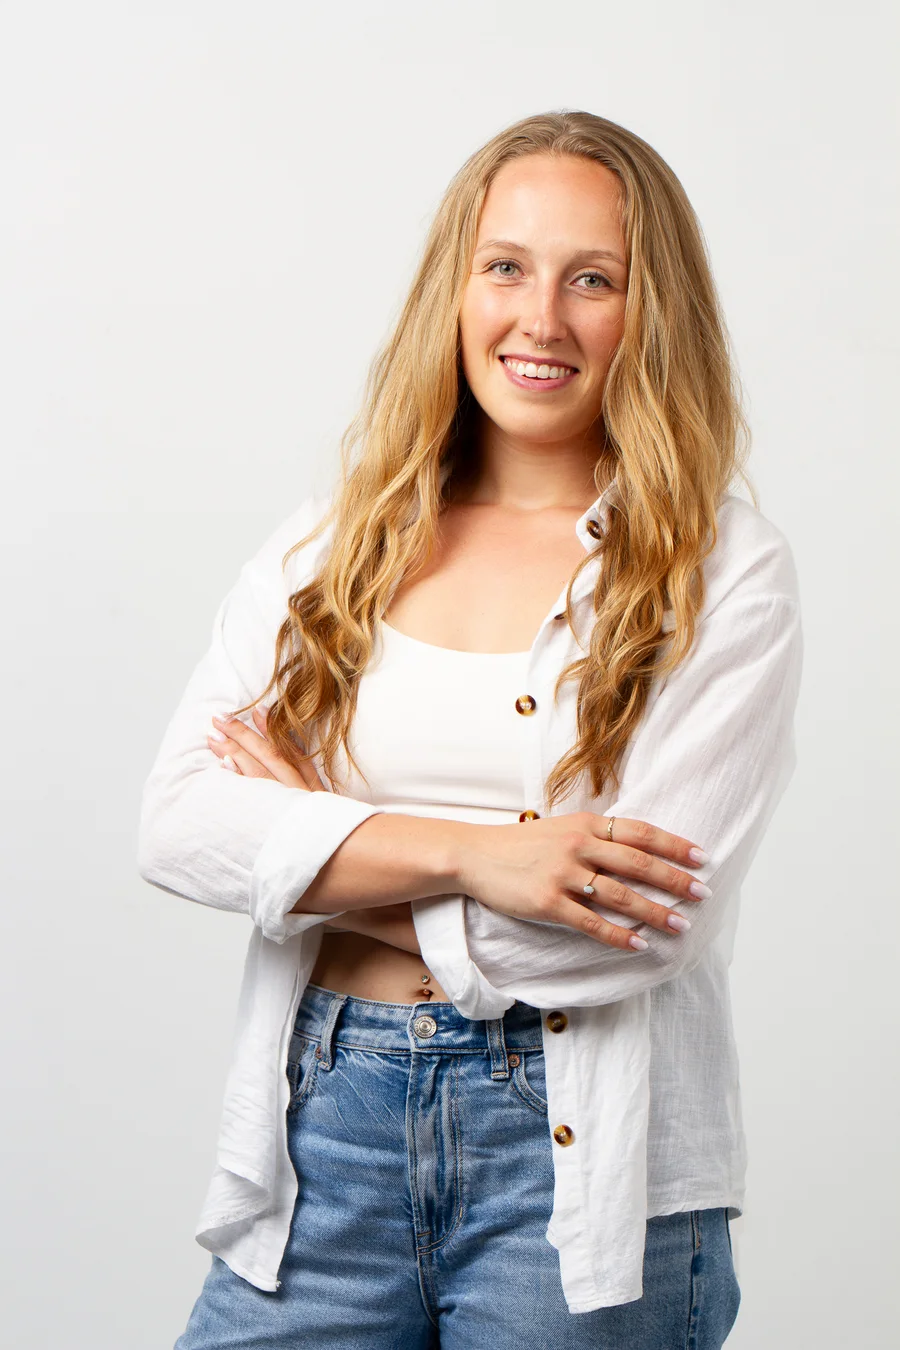
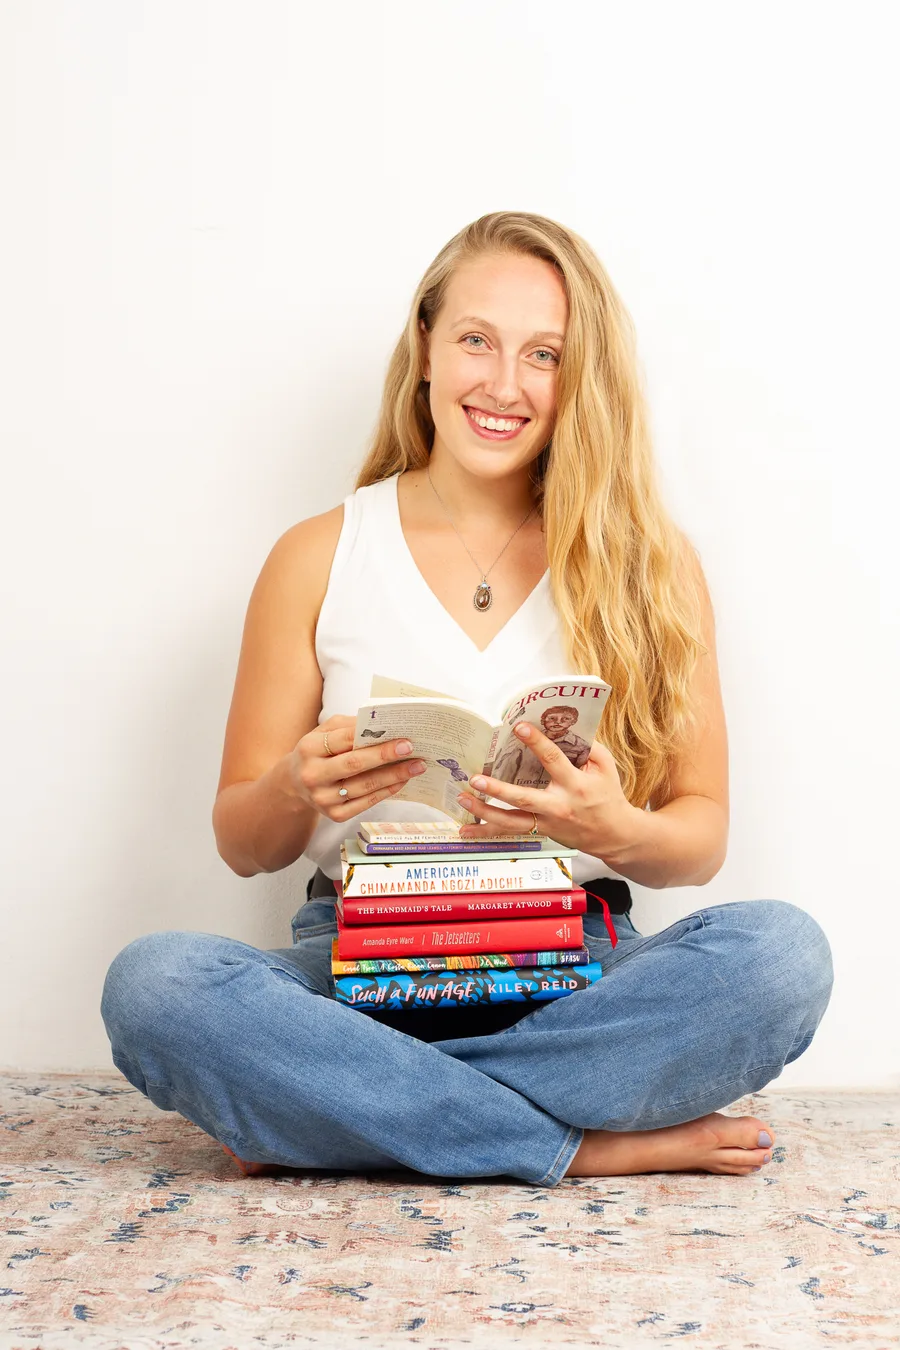
Apply owner photo swaps; Audrey bio uses dch_7238.
Replace hero, Audrey teacher, Monique, and home-only founder images with optimized WebPs from the uploaded DCH files. Our story keeps the existing founder portrait.

diff --git a/app/page.tsx b/app/page.tsx
@@ -193,7 +193,7 @@ export default function Home() {
       {page === "home" && <>
         <section className="hero">
           <div><p className="eyebrow">{l("Your virtual language academy", "Tu academia virtual de idiomas")}</p><h1>{l("Build the confidence", "Gana confianza")} <em>{l("to speak.", "para hablar.")}</em></h1><p className="intro">{l("Personalized language instruction built around your level, goals, and needs.", "Instrucción de idiomas personalizada, diseñada según tu nivel, tus metas y tus necesidades.")}</p><a className="button primary" href={generalUrl} target="_blank" rel="noreferrer">{cta}</a><p className="micro">{l("Certified native teachers · Personalized learning · Authentic conversation", "Docentes nativos certificados · Aprendizaje personalizado · Conversación auténtica")}</p></div>
-          <div className="hero-visual"><Image src={asset("/brand/students-talking.webp")} alt={l("Two people talking together at a table with books", "Dos personas conversando en una mesa con libros")} width={1600} height={1066} priority unoptimized /></div>
+          <div className="hero-visual"><Image src={asset("/brand/students-talking.webp")} alt={l("Three teachers sharing a book and laughing together", "Tres docentes compartiendo un libro y riendo juntas")} width={1600} height={1066} priority unoptimized /></div>
         </section>
         <section className="section audience-section" aria-labelledby="audiences-title">
           <h2 id="audiences-title">{l("Language for you.", "El idioma para ti.")}</h2>
@@ -215,7 +215,7 @@ export default function Home() {
           </a>
         </section>
         <section className="section approach-teaser"><div><h2>{l("Our approach", "Nuestro enfoque")}</h2><p className="intro">{l("Before your first official class, we have a meeting where we talk about your goals, give a brief oral evaluation, and customize your learning plan.", "Antes de tu primera clase oficial, tenemos una reunión en la que hablamos de tus metas, hacemos una breve evaluación oral y personalizamos tu plan de aprendizaje.")}</p><a className="text-link" href={url({ page: "approach" })} onClick={followNav}>{l("Read our approach", "Lee nuestro enfoque")} ↗</a></div></section>
-        <section className="founder-band"><div className="section founder-preview"><div><p className="eyebrow">{l("How Just Keep Talking started", "Cómo empezó Just Keep Talking")}</p><h2>{l("Knowing the words is only the beginning.", "Conocer las palabras es solo el comienzo.")}</h2></div><div><Image className="founder-preview-portrait" src={asset("/brand/audrey-founder.webp")} alt={l("Audrey, founder of Just Keep Talking", "Audrey, fundadora de Just Keep Talking")} width={900} height={1350} unoptimized /><p className="intro">{founderPreview}</p><a className="text-link" href={url({ page: "about" })}>{l("Read Audrey’s story", "Lee la historia de Audrey")} ↗</a></div></div></section>
+        <section className="founder-band"><div className="section founder-preview"><div><p className="eyebrow">{l("How Just Keep Talking started", "Cómo empezó Just Keep Talking")}</p><h2>{l("Knowing the words is only the beginning.", "Conocer las palabras es solo el comienzo.")}</h2></div><div><Image className="founder-preview-portrait" src={asset("/brand/audrey-home-founder.webp")} alt={l("Audrey, founder of Just Keep Talking", "Audrey, fundadora de Just Keep Talking")} width={900} height={1350} unoptimized /><p className="intro">{founderPreview}</p><a className="text-link" href={url({ page: "about" })}>{l("Read Audrey’s story", "Lee la historia de Audrey")} ↗</a></div></div></section>
         <section className="section"><div className="section-intro"><h2>{l("Meet our community", "Conoce a nuestra comunidad")}</h2><a className="text-link" href={url({ page: "about" }, "#team")}>{l("See more", "Ver más")} ↗</a></div>{teamGrid(true)}</section>
       </>}
       {page === "approach" && <>

diff --git a/project/STATUS.md b/project/STATUS.md
@@ -9,9 +9,13 @@ Owner-directed home pass on branch `cursor/home-page-updates-c604` (not pushed t
 - Approach teaser is a single “Our approach” heading with the intake-meeting copy. Founder band is “How Just Keep Talking started” with the updated Audrey preview bio.
 - Community section is “Meet our community” / “See more,” with a Teacher role under every team card (Founder & teacher for Audrey).
 - FAQ moved to `?page=faq` with rewritten questions, immersion-activities answer, methodology, and languages (English all ages; Spanish for adults).
-- Photo swaps for `dch_2644`, `dch_7245`, `DCH_2554-Editar`, and Monique `DCH_2425` are still open: source files were not in the workspace. Current WebP assets remain until those files arrive.
+- Photo swaps applied from owner uploads: hero `dch_2644`, Audrey teacher/bio `dch_7238` (corrected from `dch_7245`), home founder band `DCH_2554-Editar` → `audrey-home-founder.webp` (Our story still uses `audrey-founder.webp`), Monique `DCH_2425`.
 
-`pnpm check` passed: ESLint, production build, two server-render tests, seven Playwright tests (one mobile accessibility skip as usual). Spot screenshots at desktop 1280 and phone 390 for home hero, audience grid, community, footer, and FAQ. Chromium only. No WhatsApp or email message was sent.
+`pnpm check` passed after the photo pass: ESLint, production build, two server-render tests, seven Playwright tests (one mobile accessibility skip as usual). Chromium only. No WhatsApp or email message was sent.
+
+## Photos applied — 23 October 2026
+
+Optimized WebPs written under `public/brand/` and wired on `cursor/home-page-updates-c604`. Audrey bio uses `dch_7238`, not `dch_7245`.
 
 ## Quiz callout — 2 October 2026
 

diff --git a/intake/2027-program-update/owner-confirmed-pricing-and-portraits.md b/intake/2027-program-update/owner-confirmed-pricing-and-portraits.md
@@ -21,10 +21,10 @@ Owner-labelled originals in the workspace archive `../assets/brand/photos/`:
 - Cristian-teacher.jpg: Cristian's teacher card.
 - Monique-teacher.jpg: Monique's teacher card.
 
-Pending owner DCH swaps (files not yet in the workspace):
-- `dch_2644`: home hero (replaces `students-talking.webp`).
-- `dch_7245`: Audrey teacher / bio card (replaces `audrey-teacher.webp`).
-- `DCH_2554-Editar`: home “How Just Keep Talking started” band only (Our story keeps the current founder portrait).
-- `DCH_2425`: Monique teacher card on home and Meet Us / about (replaces `monique-teacher.webp`).
+Owner DCH swaps applied from chat uploads (local Desktop archive is not mounted in cloud agents; optimized WebPs are in `public/brand/`):
+- `dch_2644`: home hero → `public/brand/students-talking.webp`.
+- `dch_7238`: Audrey teacher / bio card → `public/brand/audrey-teacher.webp` (corrected from `dch_7245`).
+- `DCH_2554-Editar`: home “How Just Keep Talking started” band only → `public/brand/audrey-home-founder.webp` (Our story keeps `audrey-founder.webp`).
+- `DCH_2425`: Monique teacher card on home and Meet Us / about → `public/brand/monique-teacher.webp`.
 
 Use matching-size placeholders for Iain, Shay, and Charlie until their photos are supplied. Audrey remains one person with separate founder/teacher portraits, not two team profiles.

diff --git a/project/BRIEF.md b/project/BRIEF.md
@@ -33,7 +33,7 @@ Views are query parameters on `app/page.tsx` (`page`, `lang`, and on the classes
 
 ## Still open
 
-- Owner photo files to swap: home hero `dch_2644`, Audrey teacher card `dch_7245`, home founder band `DCH_2554-Editar` (Our story keeps current founder portrait), Monique teacher card `DCH_2425` (home and Meet Us). Source files were not in the workspace at implementation time.
+- Photo swaps applied: home hero `dch_2644`, Audrey teacher card `dch_7238` (not `dch_7245`), home founder band `DCH_2554-Editar` (Our story keeps current founder portrait), Monique teacher card `DCH_2425` (home and Meet Us).
 - Photos for Iain, Shay, and Charlie.
 - Whether group prices are per student or for the whole group. Do not add a label until the owner says which.
 - Detailed current cancellation and attendance terms.
